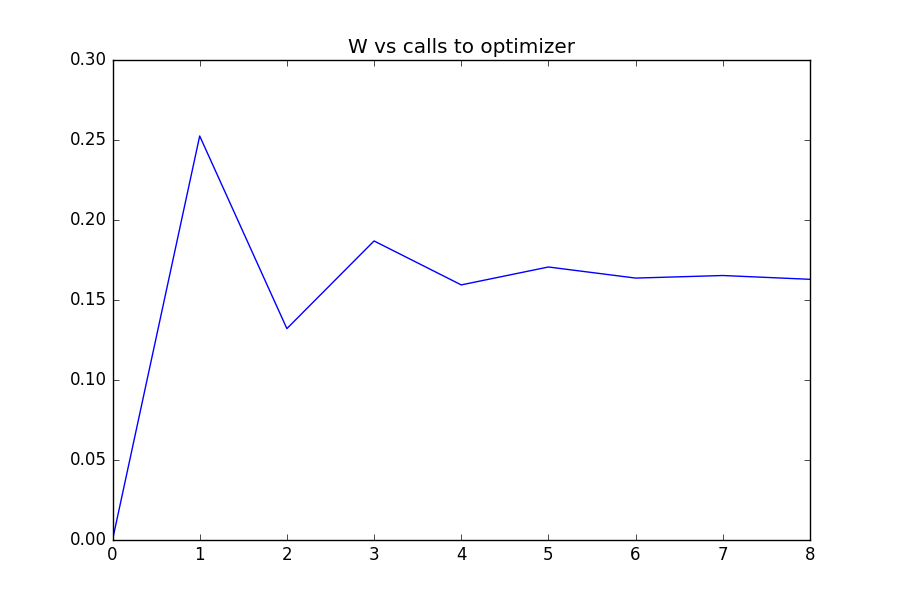
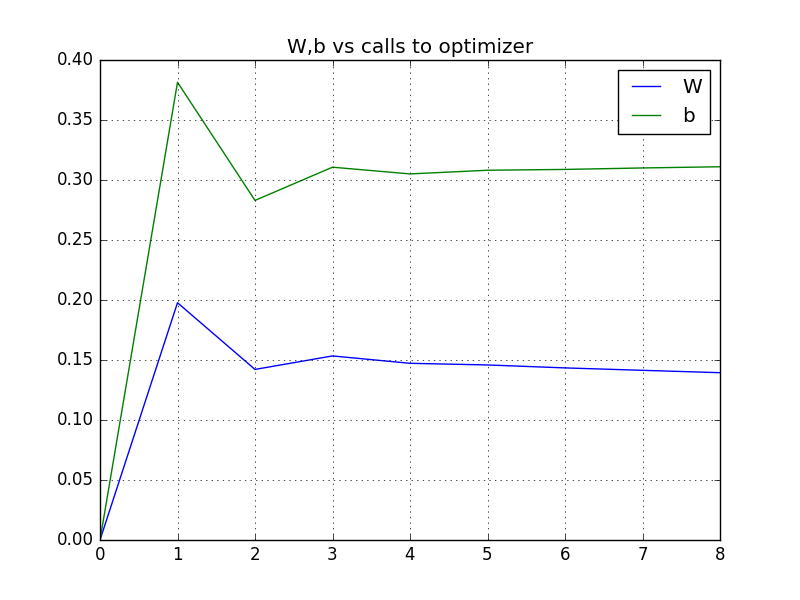
more

diff --git a/public/class05tf/demo13.py b/public/class05tf/demo13.py
@@ -8,9 +8,10 @@
 import tensorflow as tf
 import numpy      as np
 
-# Create phony x, y data points in NumPy, y = x * 0.1 + 0.3
-x_data = np.random.rand(5).astype(np.float32)
-y_data = x_data * 0.1 + 0.3
+# Create phony x, y data points in NumPy, y = x * 0.1 + 0.3 + noise
+pts_i  = 20
+x_data = np.random.rand(pts_i).astype(np.float32)
+y_data = x_data * 0.1 + 0.3 + 0.05*np.random.rand(pts_i)
 
 # Try to find values for W and b that compute y_data = W * x_data + b
 # (We know that W should be 0.1 and b 0.3, but TensorFlow will
@@ -48,7 +49,9 @@ for step in range(9):
     l_l.append(tf_loss)
     # Now I should change W,b:
     sess.run(train)
-
+print('I calculate W to be: '+str(tf_W))
+print('I calculate b to be: '+str(tf_b))
+print('yhat is '+str(tf_W[0])+' * x_data +'+str(tf_b[0]))
 
 # I should create lists to collect artifacts of optimizer:
 dw_l = []
@@ -86,10 +89,34 @@ matplotlib.use('Agg')
 # Do not move the next import:
 import matplotlib.pyplot as plt
 plt.figure(figsize=(9,6))
-plt.grid(True)
 
-opt_df.W.plot.line(title="W vs calls to optimizer")
+opt_df[['W','b']].plot.line(title="W,b vs calls to optimizer")
+plt.grid(True)
 plt.savefig('w.png')
+plt.close()
+
+opt_df[1:].loss.plot.line(title="loss vs calls to optimizer")
+plt.savefig('loss.png')
+plt.close()
+
+opt_df[['dw','db']].plot.line(title="dW,db vs calls to optimizer")
+plt.grid(True)
+plt.savefig('dwdb.png')
+plt.close()
+
+opt_df[['dL/dw','dL/db']].plot.line(title="dL/dW,dL/db vs calls to optimizer")
+plt.grid(True)
+plt.savefig('dldwdb.png')
+plt.close()
+
+# I should plot y_data vs x_data
+plt.scatter(x_data,y_data,c='b')
+# I should plot yhat too:
+yhat_a = tf_W * x_data + tf_b
+plt.plot(x_data,yhat_a,c='g')
+plt.title('y_data vs x_data (blue) and yhat vs x_data (green)')
+plt.grid(True)
+plt.savefig('yvsx.png')
 plt.close()
 
 'bye'
